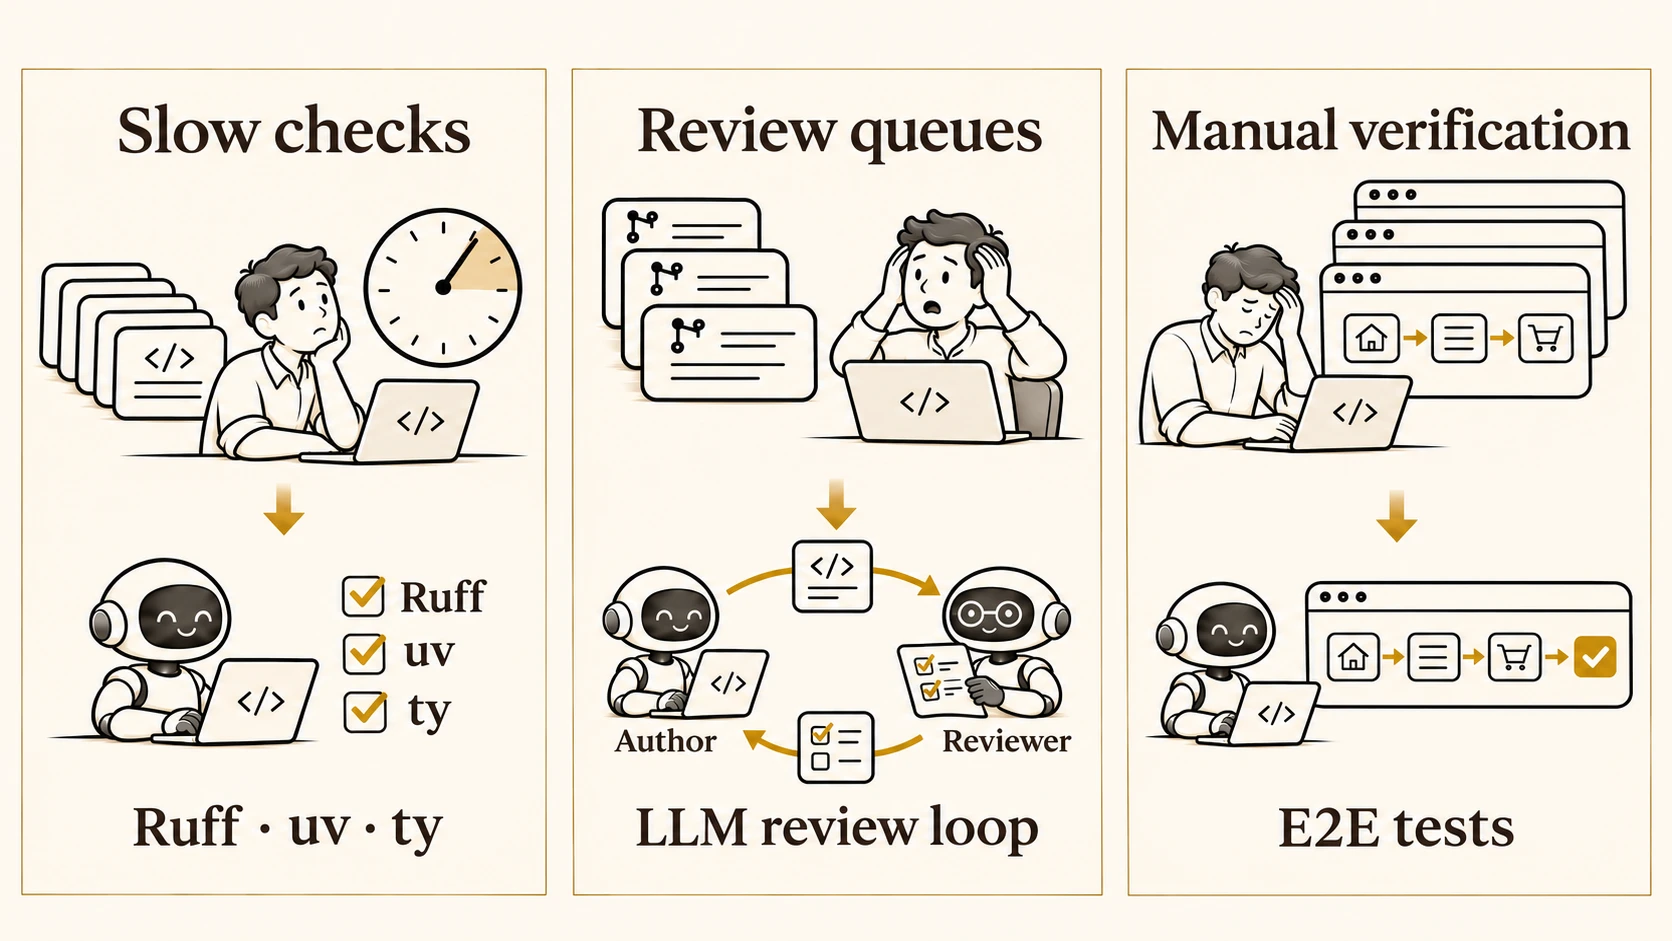
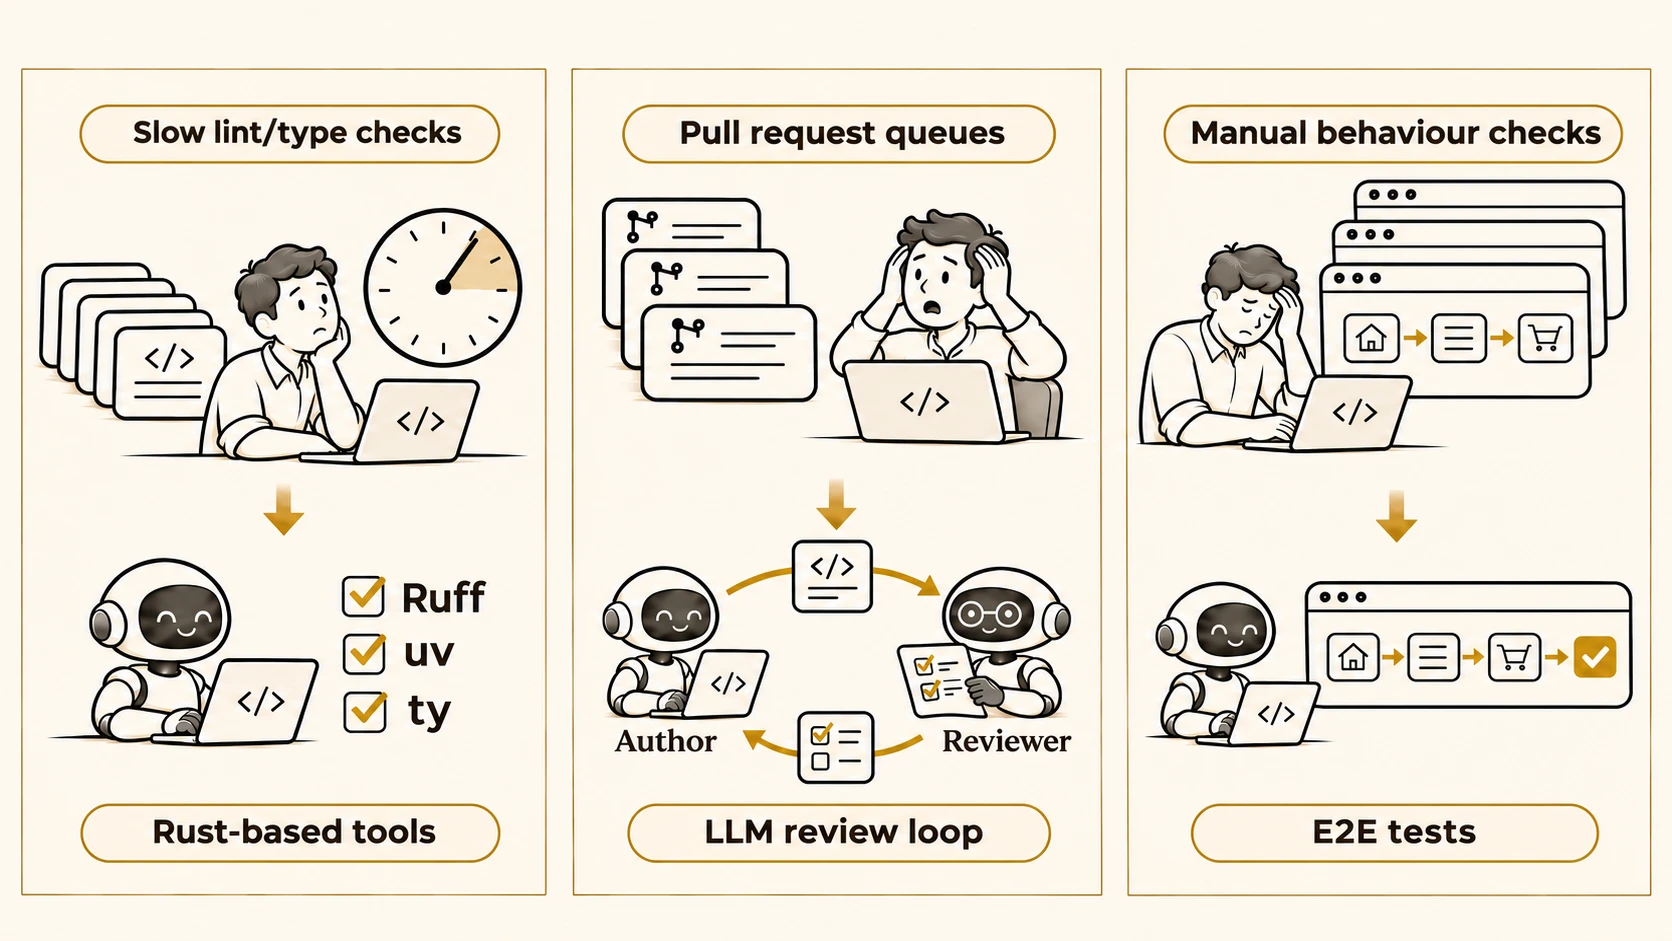
fix(illustrations): refine bottleneck panel labels

diff --git a/media/README.md b/media/README.md
@@ -82,29 +82,28 @@ labels, delivery queues, overwhelmed human reviewers, coding agents, and rocket.
 Three practical responses to queues in software delivery: use Rust-based
 Python tools for slow lint and type checks; split or stack large pull requests
 before an LLM author/reviewer loop; and replace repeated manual behaviour
-checks with E2E tests. Each panel has a matching open serif heading and a
-concise outcome label. The labels name possible interventions, not guaranteed
-speedups.
+checks with E2E tests. Each panel uses compact chips to label the bottleneck and
+its intervention. Ruff, uv, and ty are named in the first panel's illustration,
+so its intervention chip describes them collectively as Rust-based tools.
 
 ```text
 Use case: productivity-visual. Revise the supplied three-panel illustration
 in the deck's editorial style: flat ivory canvas, warm-stone panels, near-black
-pen-and-ink linework, restrained gold hairlines and arrows, and elegant open
-serif headings like the autonomy illustration. Give all three panels
-consistent, unboxed headings: “Slow checks”, “Review queues”, and “Manual
-verification”. Keep outcomes below: “Ruff · uv · ty”, “LLM review loop”, and
-“E2E tests”. Show a queue of changes waiting and a slow clock in panel one,
-then Ruff, uv, and ty; show an overwhelmed human reviewer above smaller changes
-entering a looping LLM author/reviewer workflow in panel two; show repeated
-manual web checks and a tired person above an automated E2E test in panel
-three. Use very few emphasis marks, with no decorative rays, whisker-like
-lines, or sparkles. Keep panels balanced and spacious. No overall title or
-footer.
+pen-and-ink linework, restrained gold hairlines and arrows. Preserve the three
+scenes. Use compact rounded outline label chips, with modest sans-serif type and
+ample vertical spacing before each scene. Top chip labels: “Slow lint/type
+checks”, “Pull request queues”, and “Manual behaviour checks”. Bottom
+intervention chips: “Rust-based tools”, “LLM review loop”, and “E2E tests”. Do
+not repeat Ruff, uv, or ty in any chip; they are already visibly listed in panel
+one. Show a queue and slow clock before Ruff, uv, and ty; smaller changes
+entering a two-way LLM author/reviewer loop after a review queue; and repeated
+manual browser checks automated by an E2E test. Keep labels aligned and panels
+balanced, accurate, and spacious. No oversized headings, duplicated
+information, overall title, caption, or watermark.
 ```
 
 The three panels make waiting, review overload, and repetitive manual checks
-visible through queues and human expressions. Decorative emphasis marks are
-sparse.
+visible through queues and human expressions. Decorative emphasis marks are sparse.
 
 ## constituents-of-success.webp
 
